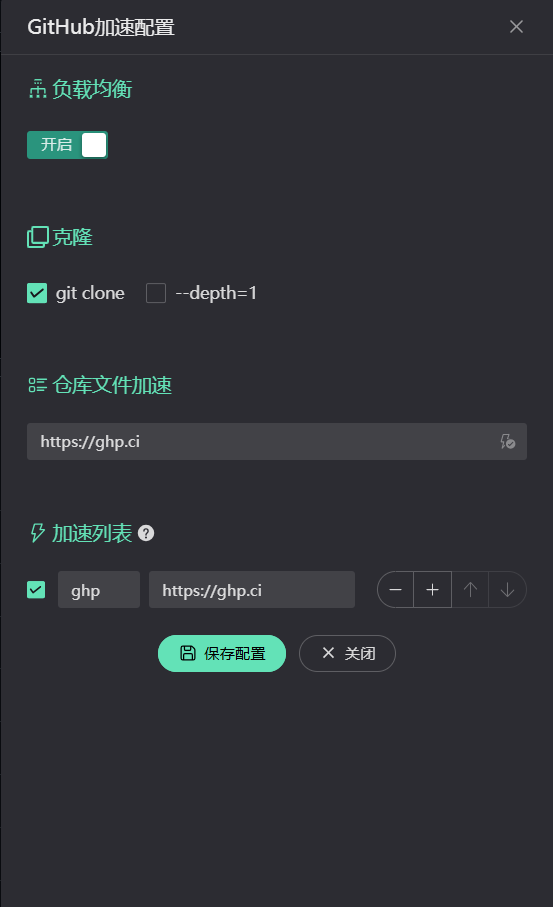
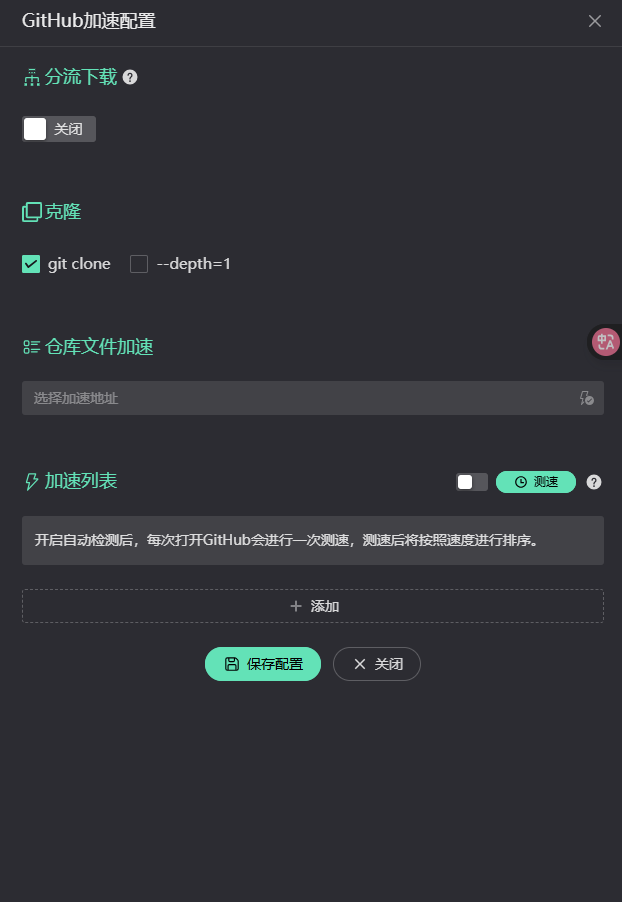
🔖 v1.0.4

diff --git a/vite.config.js b/vite.config.js
@@ -20,7 +20,7 @@ export default defineConfig({
           "https://scriptcat.org/lib/513/2.0.1/ElementGetter.js#sha256=V0EUYIfbOrr63nT8+W7BP1xEmWcumTLWu2PXFJHh5dg=",
           util.dataUrl(`window.elmGetter=elmGetter`),
         ],
-        version: "1.0.3",
+        version: "1.0.4",
       },
       build: {
         externalGlobals: {
